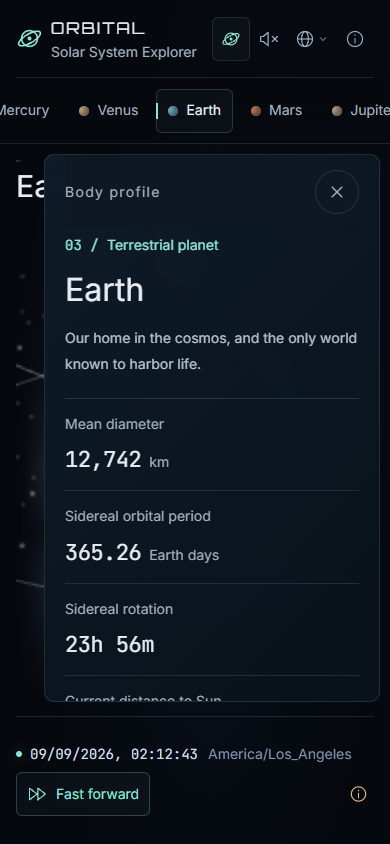
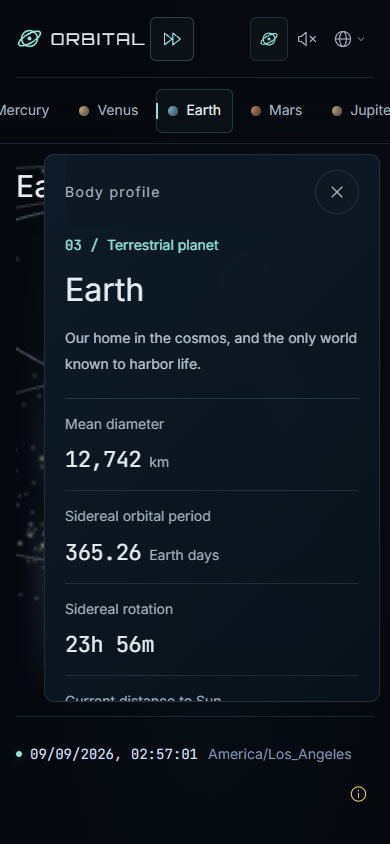
Refresh simulation guide and screenshots

diff --git a/README.md b/README.md
@@ -24,7 +24,8 @@ Start with the whole solar system, then get closer to any world. Follow Earth's 
 | Visit a world | Select its name in the navigation, click the planet itself, or click its label |
 | Look around | Drag the scene; use the wheel or pinch to zoom |
 | Find another planet | Select an edge arrow or use the destination bar |
-| Advance the simulation | Select **Fast forward**; one second advances 30 days |
+| Advance the simulation | Select **Fast forward** next to the logo; one second advances the date and orbits by 30 days |
+| Show or hide orbits | Use **Orbits** at the top right; visiting a planet preserves this setting |
 | Restore the current time | Select **Back to live** |
 | Return to the full system | Select **Solar system** |
 | Close a profile | Select **×** or press **Esc**; your viewpoint stays in place |
@@ -47,7 +48,7 @@ On a phone, swipe the destination bar to find more planets. Profiles slide in fr
 
 ## Time, scale, and what you see
 
-Your local clock includes the year and always shows the actual time. Fast forward displays a separate simulated date and advances all rotations, orbits, phases and distances together. “Back to live” restores the current instant.
+Your local clock includes the year and always shows the actual time. Fast forward displays a separate simulated date and advances orbital positions, phases and distances together. Surface rotation uses a continuous, slower display spin to avoid flickering or apparent reversal; returning to live time smoothly restores the true orientation. “Back to live” restores the current instant.
 
 The same instant produces the same planetary positions everywhere on Earth. Your time zone changes the clock display and the initial Earth viewpoint; it does not move the planets. Earth opens toward a representative location for your time zone, rather than a precise GPS location. Its profile also shows approximate local sunrise, sunset, and the illuminated fraction of the Moon.
 

diff --git a/README.zh-CN.md b/README.zh-CN.md
@@ -24,7 +24,8 @@
 | 前往一个世界 | 点击导航中的名称、星球本体或场景标签 |
 | 调整观察角度 | 拖动场景旋转；滚轮或双指缩放 |
 | 寻找其他行星 | 点击屏幕边缘的箭头，或使用天体导航 |
-| 加快时间 | 点击 **模拟推进**，每秒前进约一个月（30 天） |
+| 加快时间 | 点击左上角 **模拟推进**，日期与公转每秒前进约一个月（30 天） |
+| 显示或隐藏轨道 | 使用右上角 **轨道** 开关；切换天体不会更改显示状态 |
 | 恢复当前时间 | 点击 **恢复实时** |
 | 回到完整太阳系 | 点击 **太阳系全景** |
 | 关闭档案 | 点击 **×** 或按 **Esc**，当前观察视角会保留 |
@@ -47,7 +48,7 @@
 
 ## 时间、比例与画面
 
-本地时钟包含年份，始终显示真实时间。开启模拟推进后会另行显示模拟日期，自转、公转、月相和距离同步变化；点击“恢复实时”即可回到当前时刻。
+本地时钟包含年份，始终显示真实时间。开启模拟推进后会另行显示模拟日期，公转、月相和距离跟随模拟时刻变化。表面自转采用连续、较慢的示意动画，避免大陆闪跳或看似倒转；点击“恢复实时”后会平滑对齐真实姿态，并回到当前时刻。
 
 同一时刻，世界各地访问者看到的天体位置相同。时区只影响时间显示和地球的初始观察方向，不会改变行星轨道。地球视角采用所在时区的代表地点，并非精确 GPS 定位；资料卡还会显示该观察点附近的日出、日落时间和月面照明比例。
 
